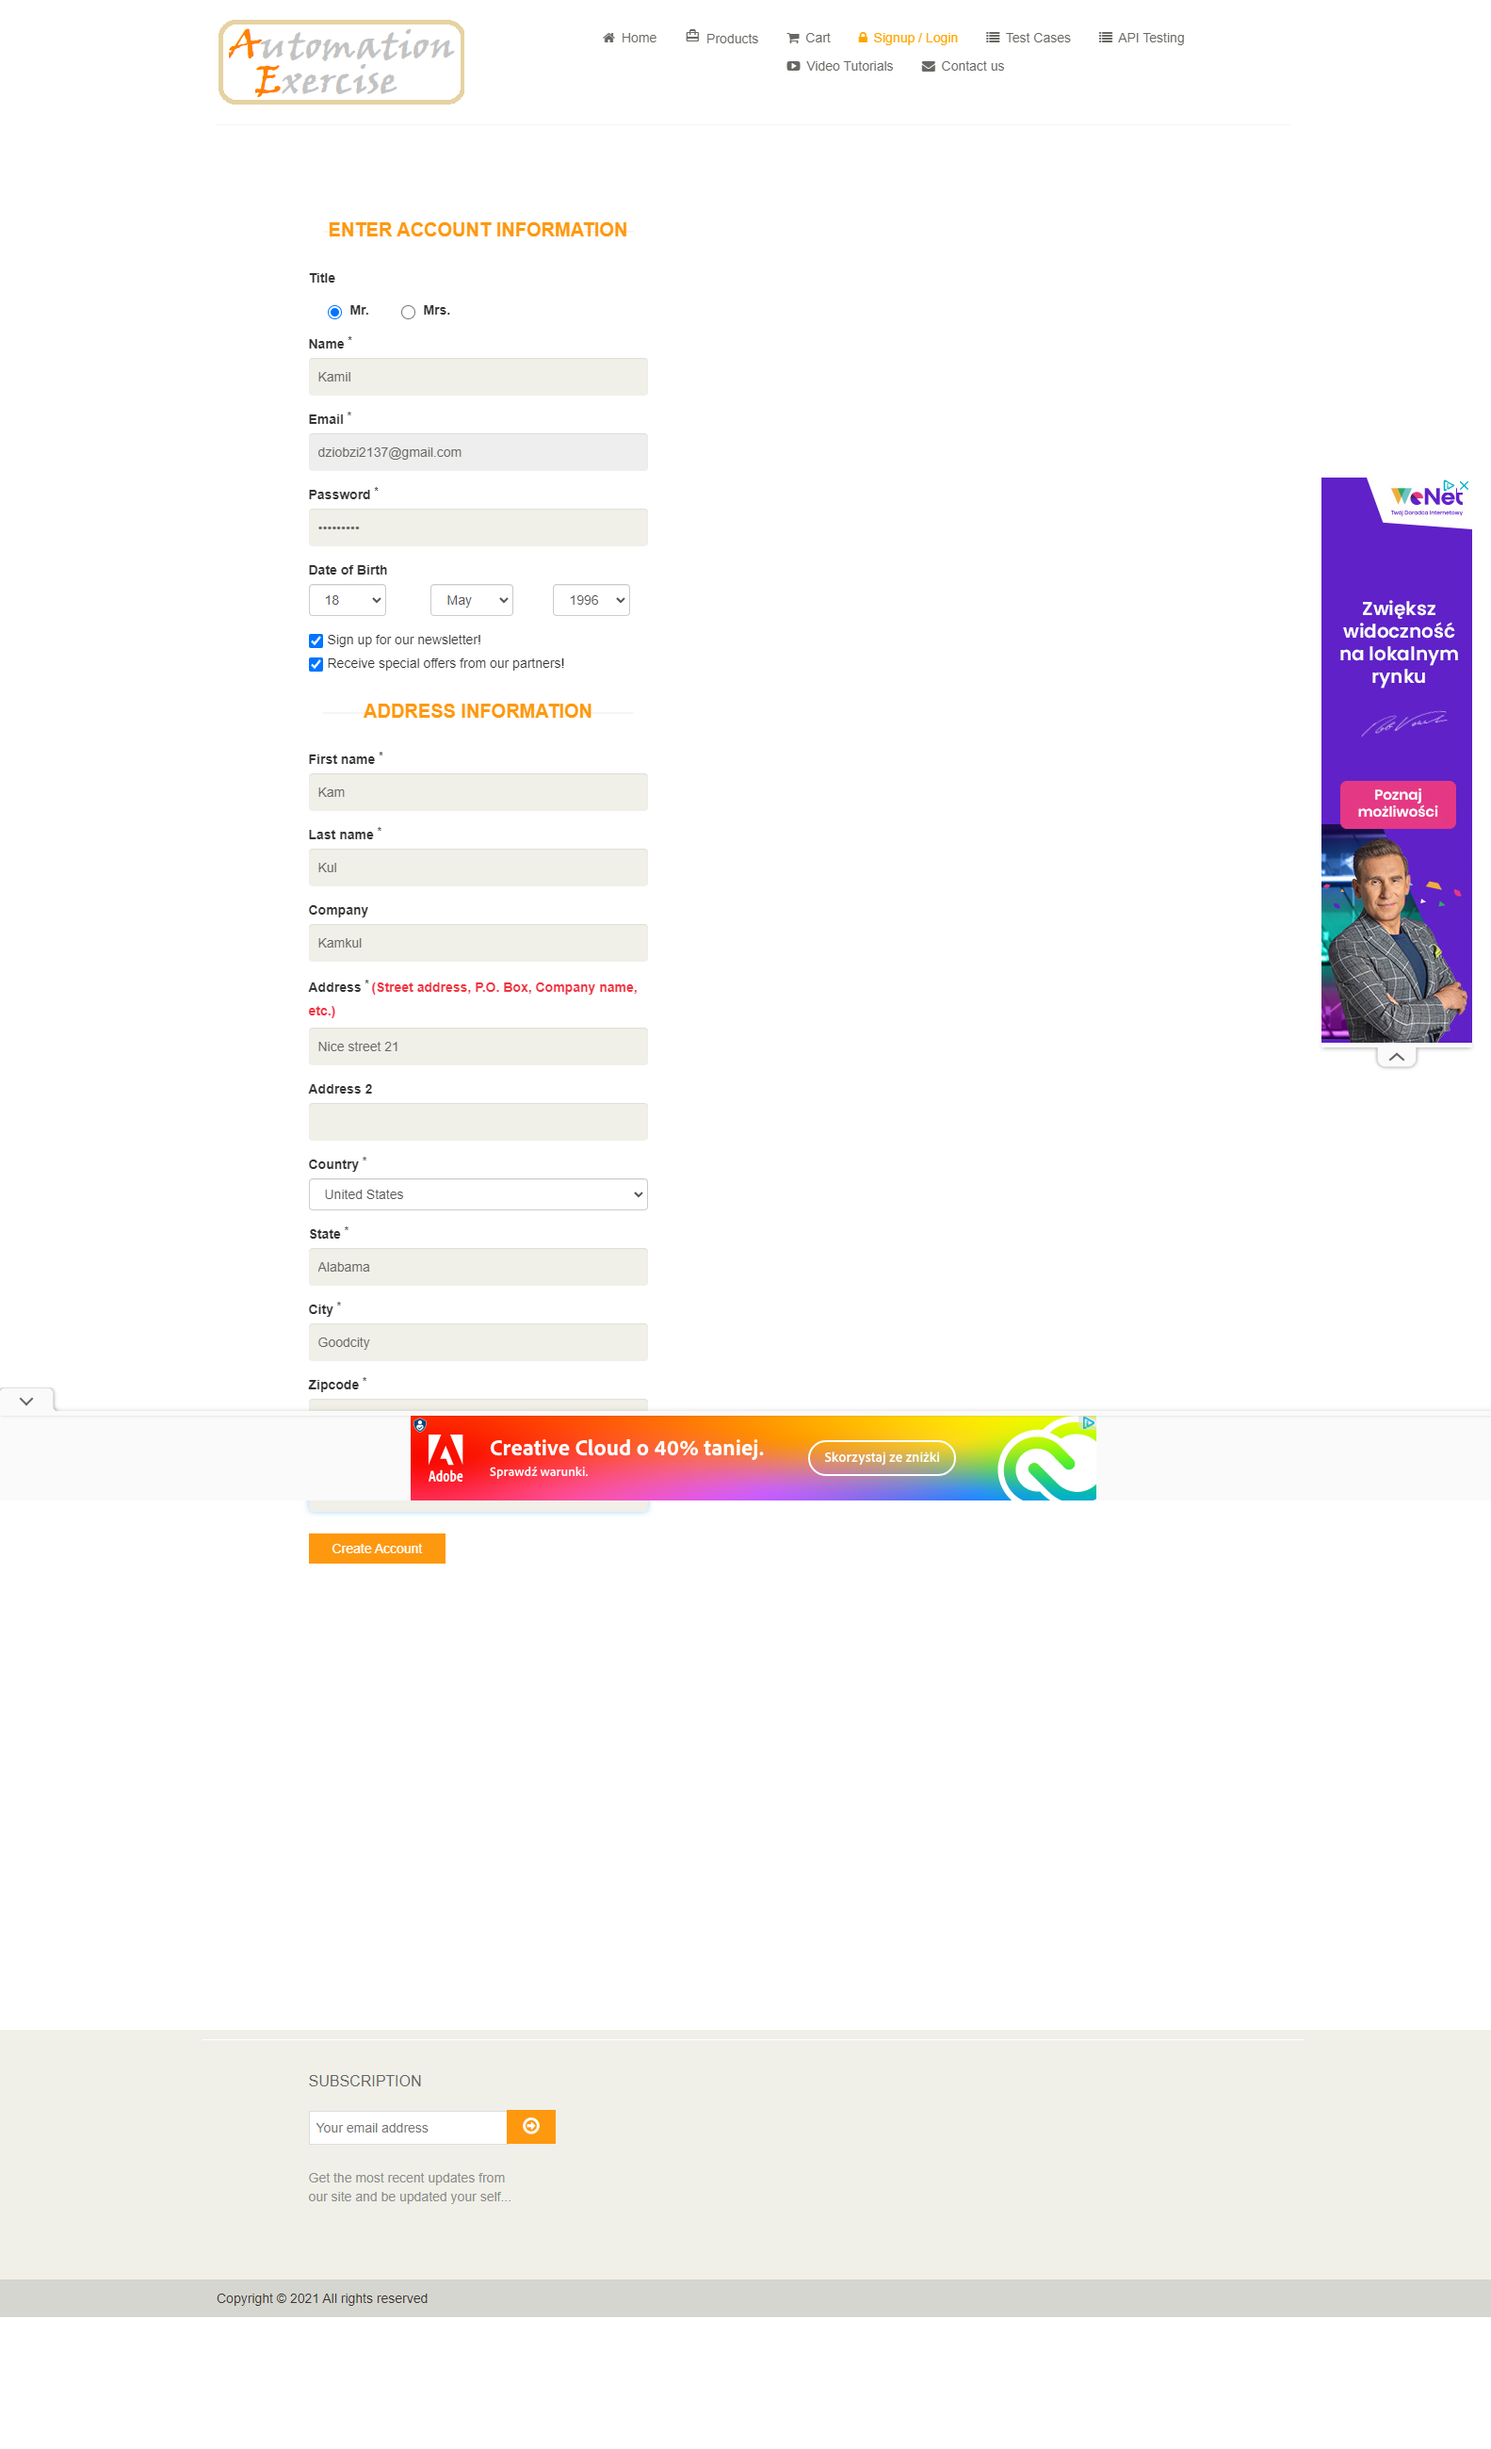
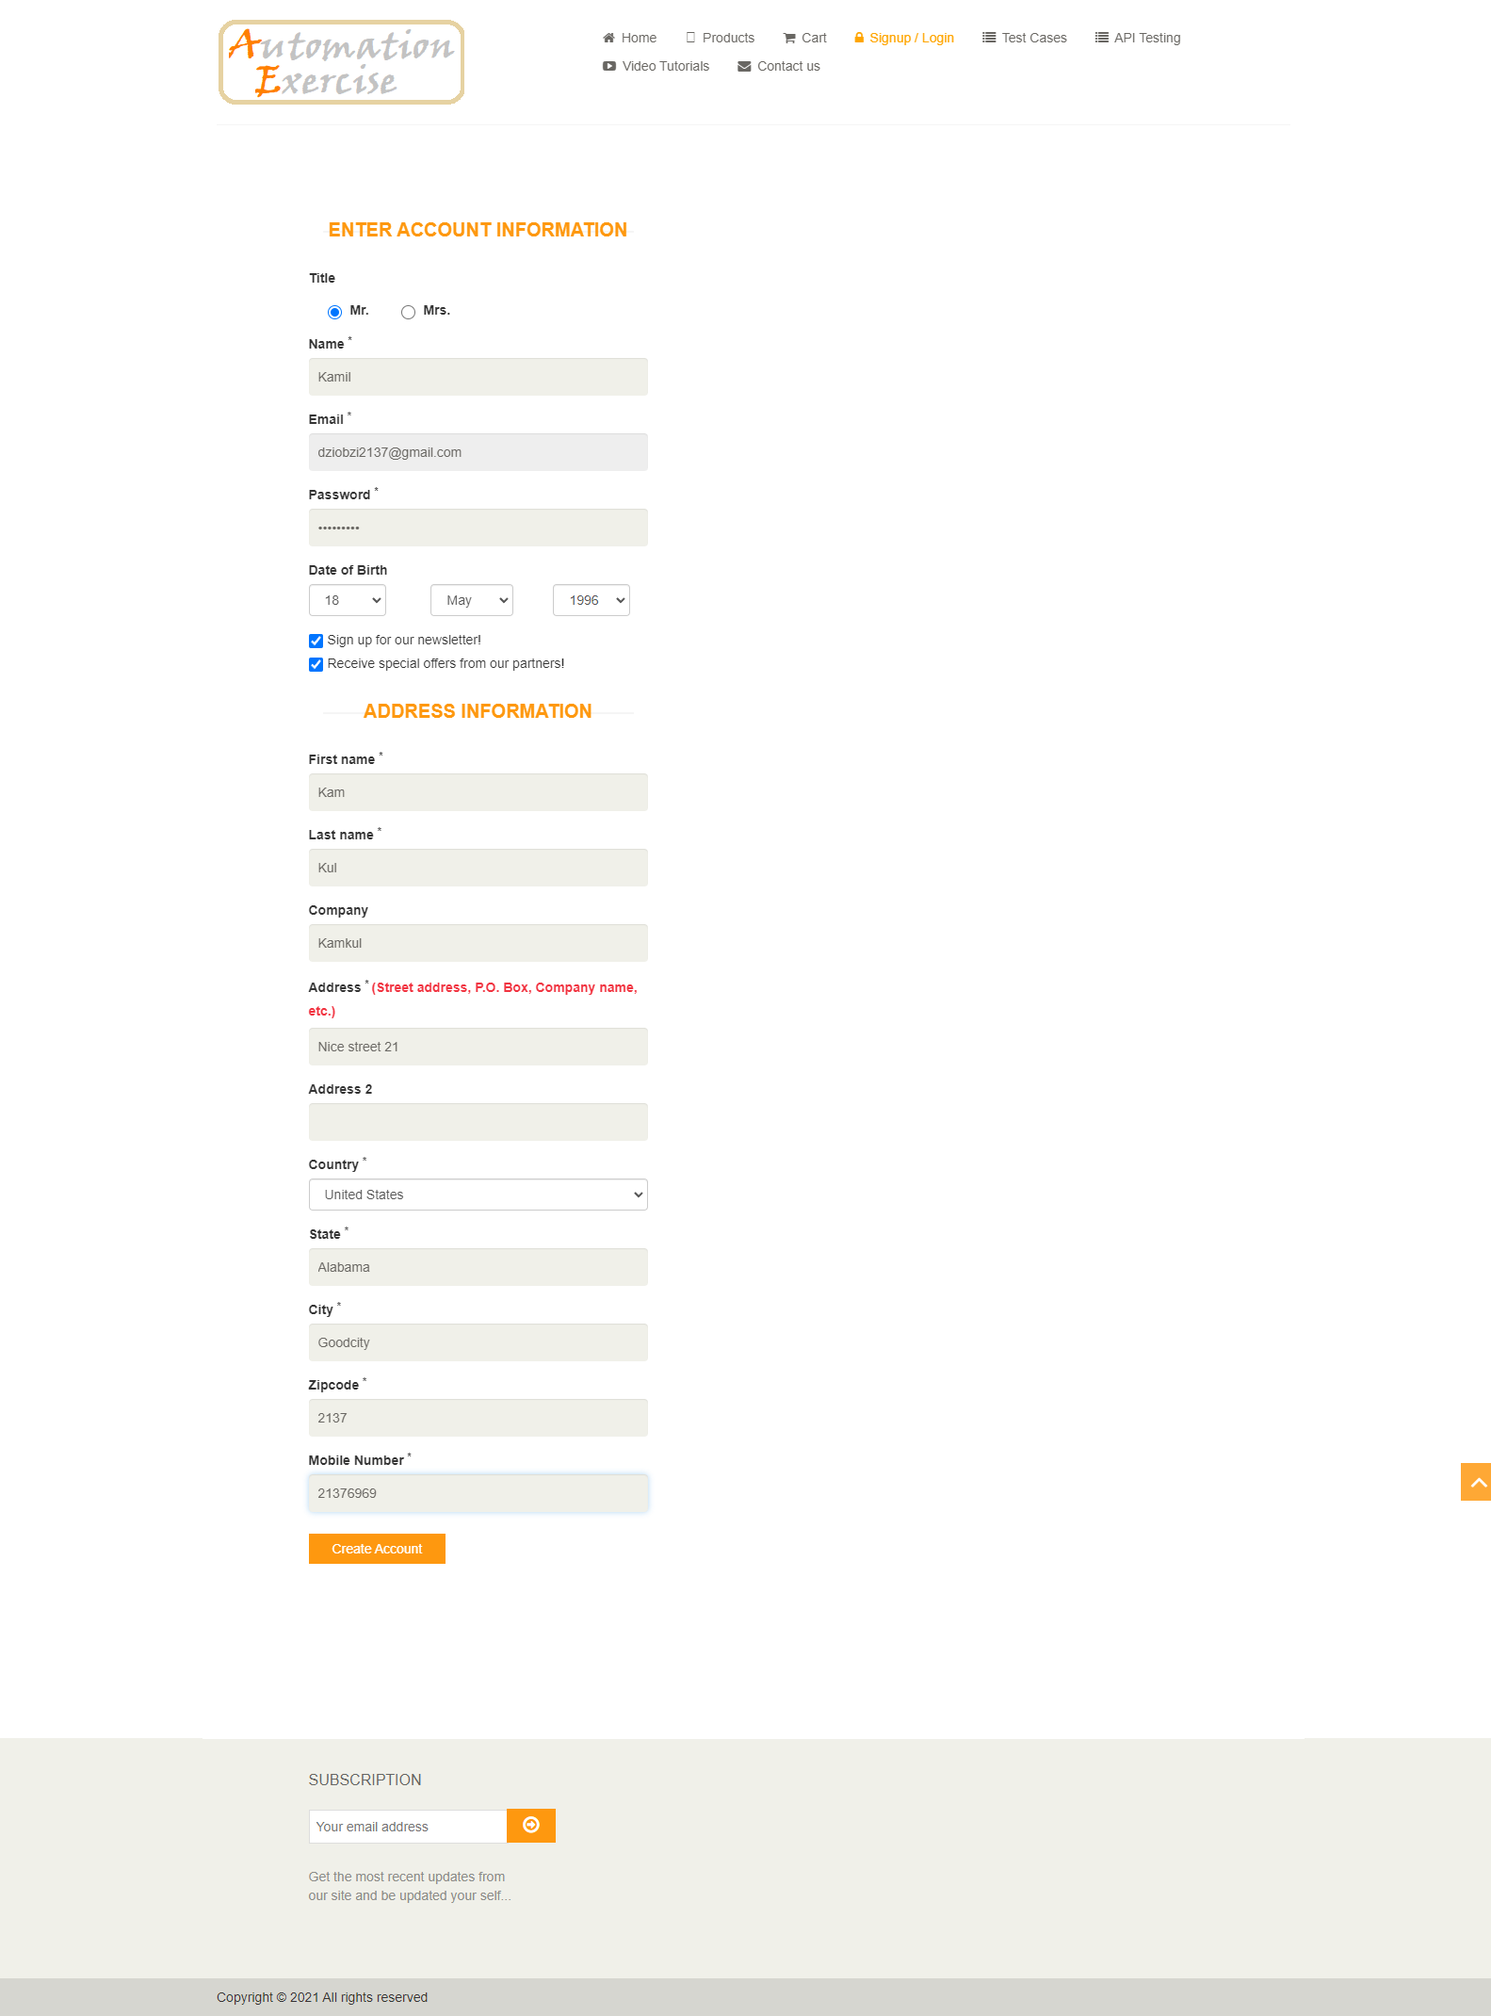
Update Test 1

diff --git a/models/login_page.py b/models/login_page.py
@@ -1,10 +1,30 @@
 from playwright.sync_api import Page, expect
+import requests
+
+BLOCK_RESOURCE_NAMES = [
+  'adzerk',
+  'analytics',
+  'cdn.api.twitter',
+  'doubleclick',
+  'exelator',
+  'facebook',
+  'google',
+  'google-analytics',
+  'googletagmanager',
+]
+        ### Blocks ads 
+def intercept_route(route):
+    if any(key in route.request.url for key in BLOCK_RESOURCE_NAMES):
+        return route.abort()
+    return route.continue_()
 
 class LoginPage:
 
     def __init__(self, page: Page):
         self.page = page
         self.page.set_viewport_size({"width": 1600, "height": 1200})
+
+        self.page.route("**/*", intercept_route )
         self.page.goto("https://www.automationexercise.com")
         expect(self.page).to_have_url("https://www.automationexercise.com/")
         self.login_button = self.page.locator("//a[contains(text(),'Signup / Login')]")
@@ -78,7 +98,13 @@ class LoginPage:
         self.create_account_btn.click()
 
         expect(self.page.get_by_role("heading", name="Account Created!")).to_be_visible()
+        self.page.locator("//a[@class='btn btn-primary']").click()
 
+        self.logged_in = self.page.locator("//a[contains(text(), 'Logged in as')]")
+        expect(self.logged_in).to_have_text("Logged in as Kamil")
+        
+        self.page.locator('//a[contains(text(), "Delete Account")]').click()
+        self.page.locator("//a[@class='btn btn-primary']").click()
 
     def login(self, email, password):
 

diff --git a/tests/test_1_register_user.py b/tests/test_1_register_user.py
@@ -31,5 +31,6 @@ def test_register(page: Page):
     email = "dziobzi2137@gmail.com"
     login_page.register(name, email)
     login_page.register_form(**register_data)
+    print("Test 1 completed successfully")
     
     
